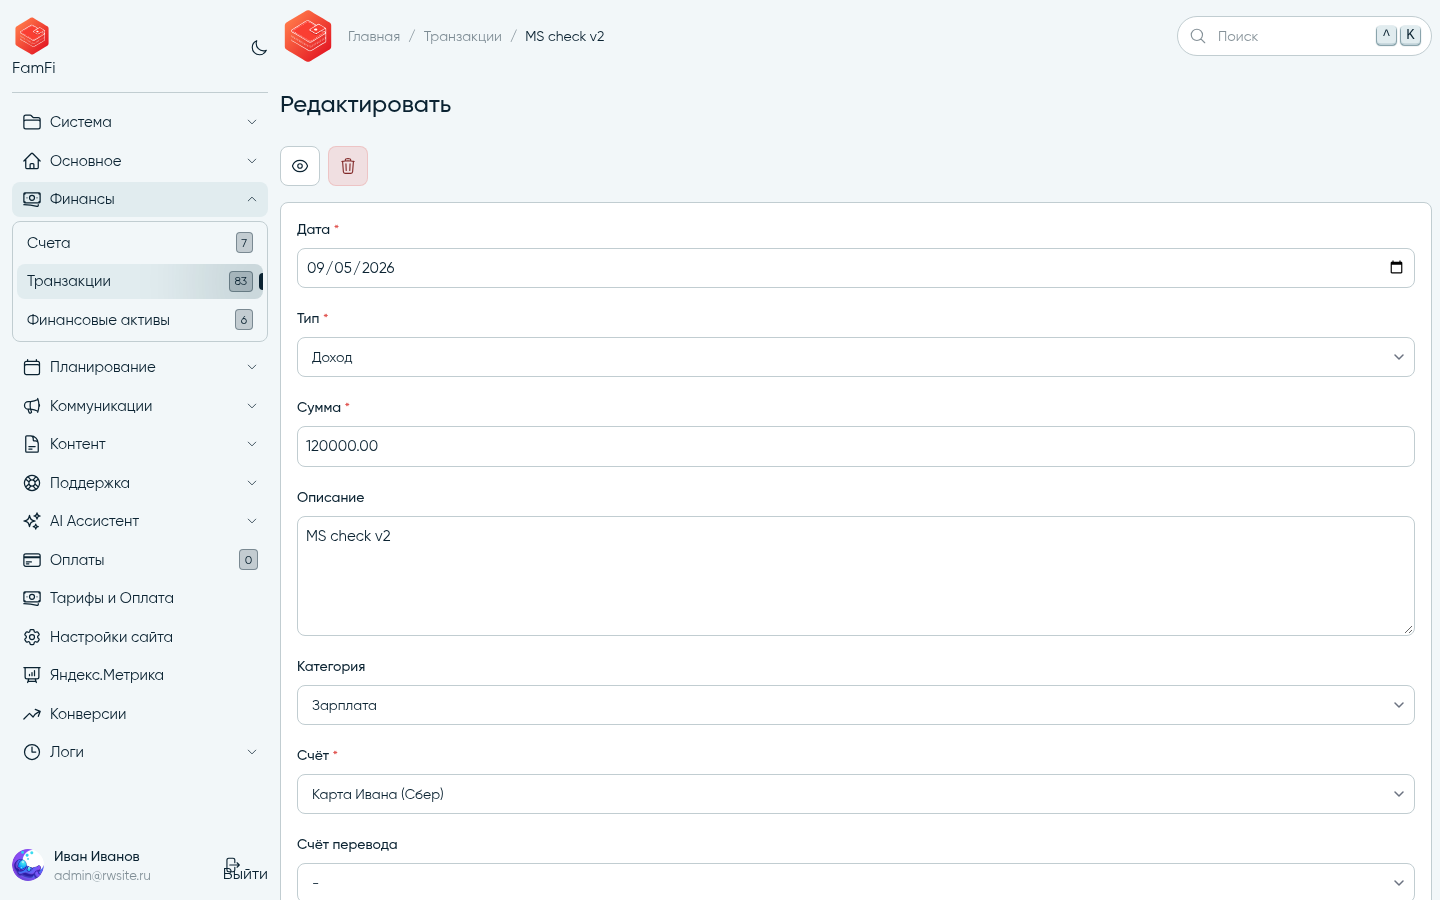
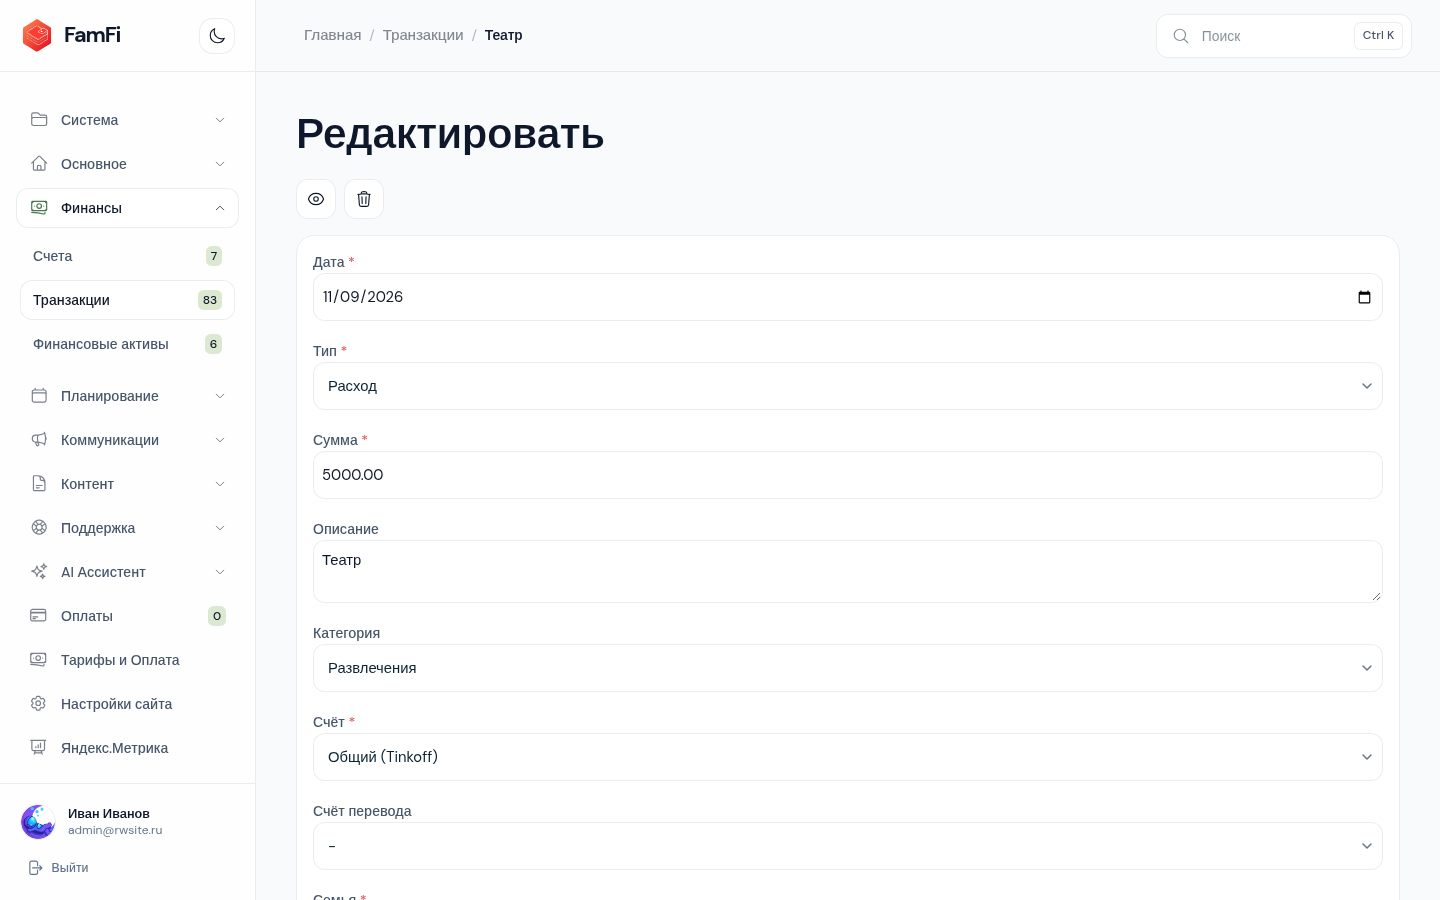
docs: refresh MoonShine 5 check screenshots
Visual defects on the first MS5 form-light shot were a local 404 of the
theme CSS, not a theme regression. After the CSS loads, light/dark/mobile
layouts match MoonShine 4. Screenshots updated; compatibility remains
^4.8 || ^5.0.

diff --git a/docs/moonshine-5-check.md b/docs/moonshine-5-check.md
@@ -1,0 +1,18 @@
+# MoonShine 5: визуальная проверка и совместимость с MS4
+
+## Резюме
+
+CSS темы на MS5 менять не пришлось. Дефекты на `form-light.png` в первом прогоне (дубль логотипа, коробка подменю «Финансы», серые бейджи, «Выйти» налезает на профиль, браузерные поля формы) были из-за 404 CSS в локальном famfi (`APP_ENV=local` берёт `/vendor/moonshine-mushrooms-theme-source/css/admin.css`, symlink указывал на несуществующий путь). На проде используется published `/vendor/moonshine-mushrooms-theme/admin.css`.
+
+После починки symlink макет MS5 совпадает с эталоном MS4: формы, список, детальная, дашборд, сайдбар; светлая, тёмная и мобильная.
+
+Обратная совместимость: `moonshine/moonshine: ^4.8 || ^5.0`. Браузерный прогон ветки `feature/moonshine-5` на famfi `dev` (MoonShine 4.19.5) и на famfi `feature/moonshine-5` (MoonShine 5.x-dev) — без регрессий.
+
+## Скриншоты
+
+Актуальные кадры в `docs/moonshine-5-check/` (форма, список, дашборд, детальная, мобильная шапка и открытое меню).
+
+## Коммиты
+
+- `513eb37` — feat: support MoonShine 5 (constraint, `mb_trim` fallback для PHP 8.3/MS4)
+- (этот коммит) — актуальные скриншоты проверки
